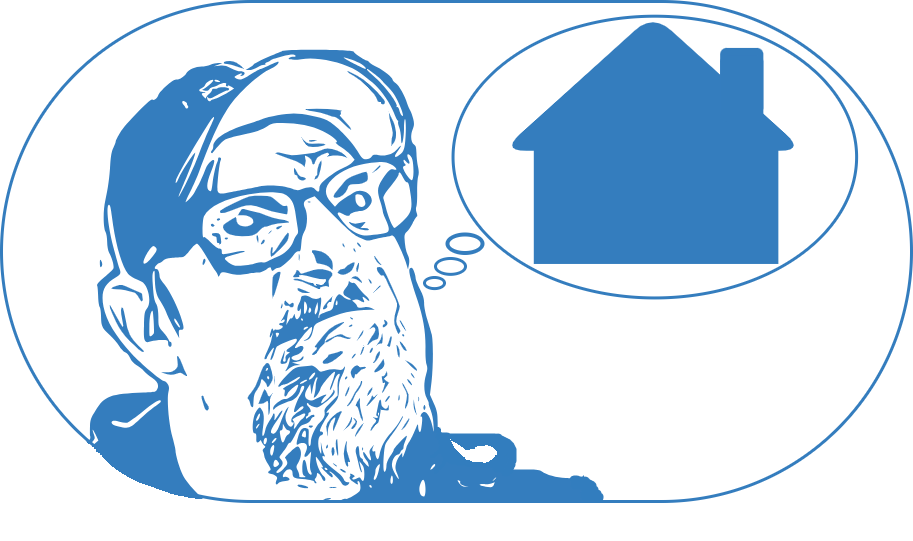
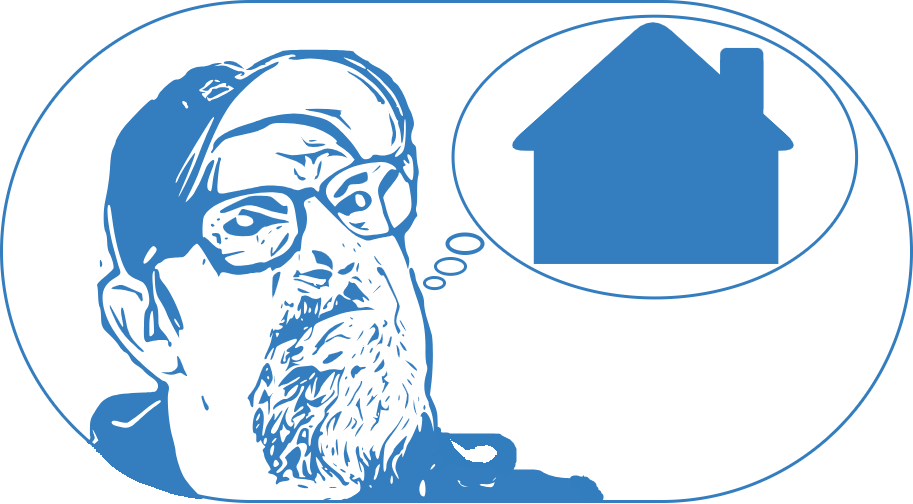
asdf

diff --git a/_includes/header.html b/_includes/header.html
@@ -1,7 +1,7 @@
 <header class="navbar navbar-expand-lg menck-navbar sticky-top z-2" style="padding-top: 2px; padding-bottom: 2px;">
   <nav class="container-xxl bd-gutter flex-wrap flex-lg-nowrap" aria-label="Main navigation" style="height:50px; padding: 0px;">
     <a class="navbar-brand p-0 me-0 me-lg-1 d-flex align-self-center" href="/alpha"  aria-label="Site icon, links to site's home page">
-      <img class="d-flex align-self-center" src="assets/images/stankyface-home-blue-oval.png" style="height: 50px; background-color:white; border-radius: 50%; border-color:white; border-style: solid; border-width: 1px;"></img>
+      <img class="d-flex align-self-center" src="assets/images/stankyface-home-blue-oval-nopill.png" style="height: 50px; background-color:white; border-radius: 50%; border-color:white; border-style: solid; border-width: 1px;"></img>
     </a>
 
    {% unless page.pagenav == false %}
